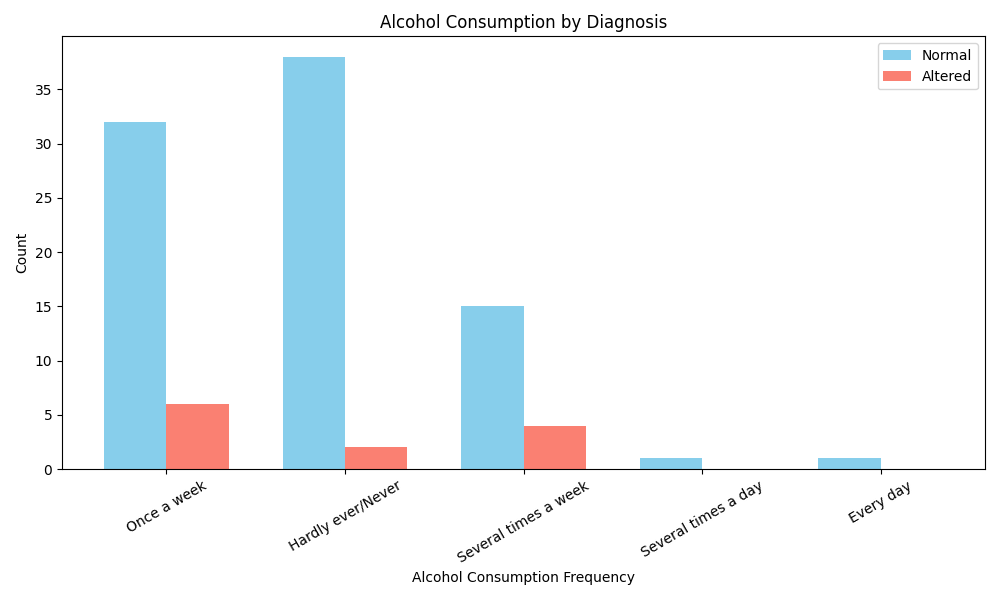
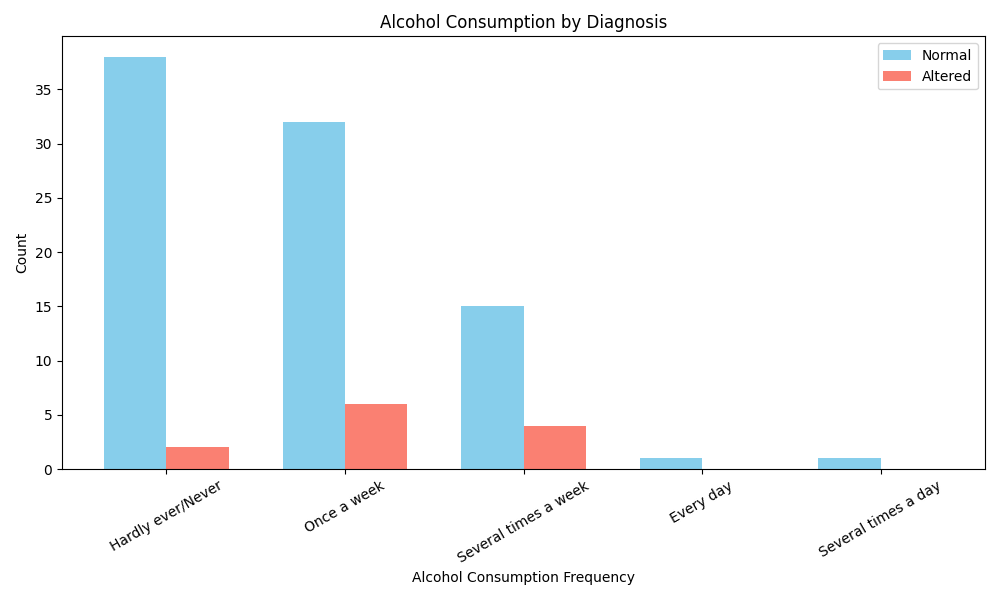
committing new files and images

diff --git a/fertility.py b/fertility.py
@@ -18,7 +18,7 @@ columns = [
 
 # read txt file 
 data = pd.read_csv(
-    '/Users/alyssaguillermo/Downloads/python projects/fertility/fertility_Diagnosis.txt', 
+    '/Users/alyssaguillermo/Downloads/python projects/fertility/fertility-data-analysis/fertility_Diagnosis.txt', 
     names=columns, 
     header=0
 )
@@ -62,10 +62,10 @@ data['Alcohol Consumption Frequency'] = data['Alcohol Consumption Frequency'].ro
 print(data)
 
 # save as csv file 
-data.to_csv('/Users/alyssaguillermo/Downloads/python projects/fertility/fertility_Diagnosis_updated.csv', index=False)
+data.to_csv('/Users/alyssaguillermo/Downloads/python projects/fertility/fertility-data-analysis/fertility_Diagnosis_updated.csv', index=False)
 
 # read csv file
-new_data = pd.read_csv('/Users/alyssaguillermo/Downloads/python projects/fertility/fertility_Diagnosis_updated.csv')
+new_data = pd.read_csv('/Users/alyssaguillermo/Downloads/python projects/fertility/fertility-data-analysis/fertility_Diagnosis_updated.csv')
 
 # get unique alcohol categories
 alcohol_categories = new_data['Alcohol Consumption Frequency'].unique()
@@ -83,7 +83,7 @@ custom_order = [
     'Several times a day'
 ]
 
-# keepcategories that actually exist in the data, in custom order
+# keep categories that actually exist in data, in custom order
 ordered_categories = [cat for cat in custom_order if cat in alcohol_categories]
 
 # count occurrences in custom order
@@ -92,12 +92,8 @@ normal_counts = [np.sum((alcohol_array == cat) & (diagnosis_array == 'Normal'))
 altered_counts = [np.sum((alcohol_array == cat) & (diagnosis_array == 'Altered')) 
                   for cat in ordered_categories]
 
-# count occurances for each diagnosis within each alcohol category
-normal_counts = np.array([np.sum((alcohol_array == category) & (diagnosis_array == 'Normal')) for category in alcohol_categories])
-altered_counts = np.array([np.sum((alcohol_array == category) & (diagnosis_array == 'Altered')) for category in alcohol_categories])
-
-# set up bar positions
-x = np.arange(len(alcohol_categories))
+# set up bar positions based on ordered categories
+x = np.arange(len(ordered_categories))
 bar_width = 0.35
 
 # plot bars
@@ -109,7 +105,7 @@ plt.bar(x + bar_width/2, altered_counts, width=bar_width, label='Altered', color
 plt.title('Alcohol Consumption by Diagnosis')
 plt.xlabel('Alcohol Consumption Frequency')
 plt.ylabel('Count')
-plt.xticks(x, alcohol_categories, rotation=30)
+plt.xticks(x, ordered_categories, rotation=30)  # ✅ now matches custom order
 plt.legend()
 plt.tight_layout()
 
